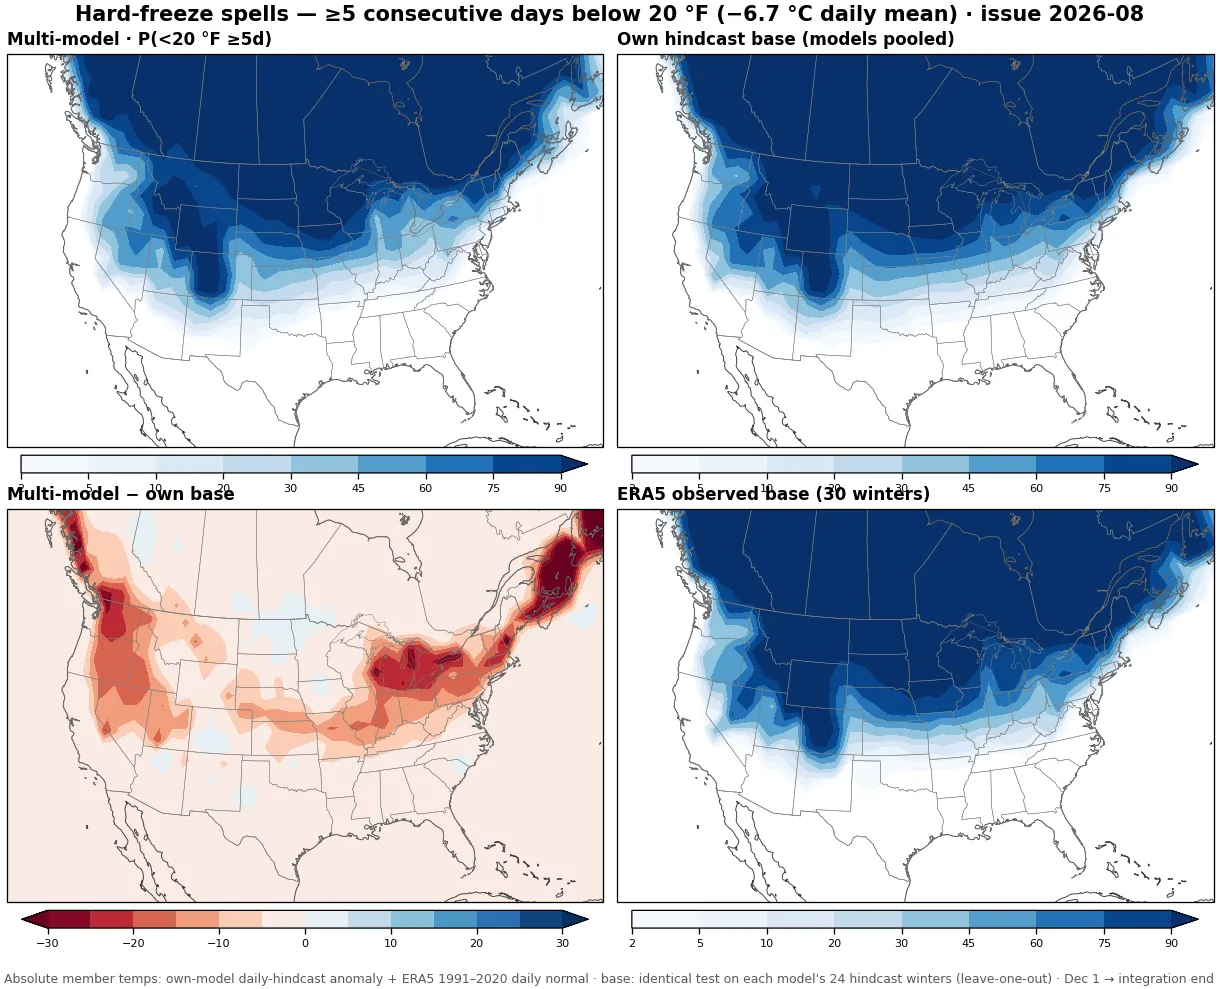
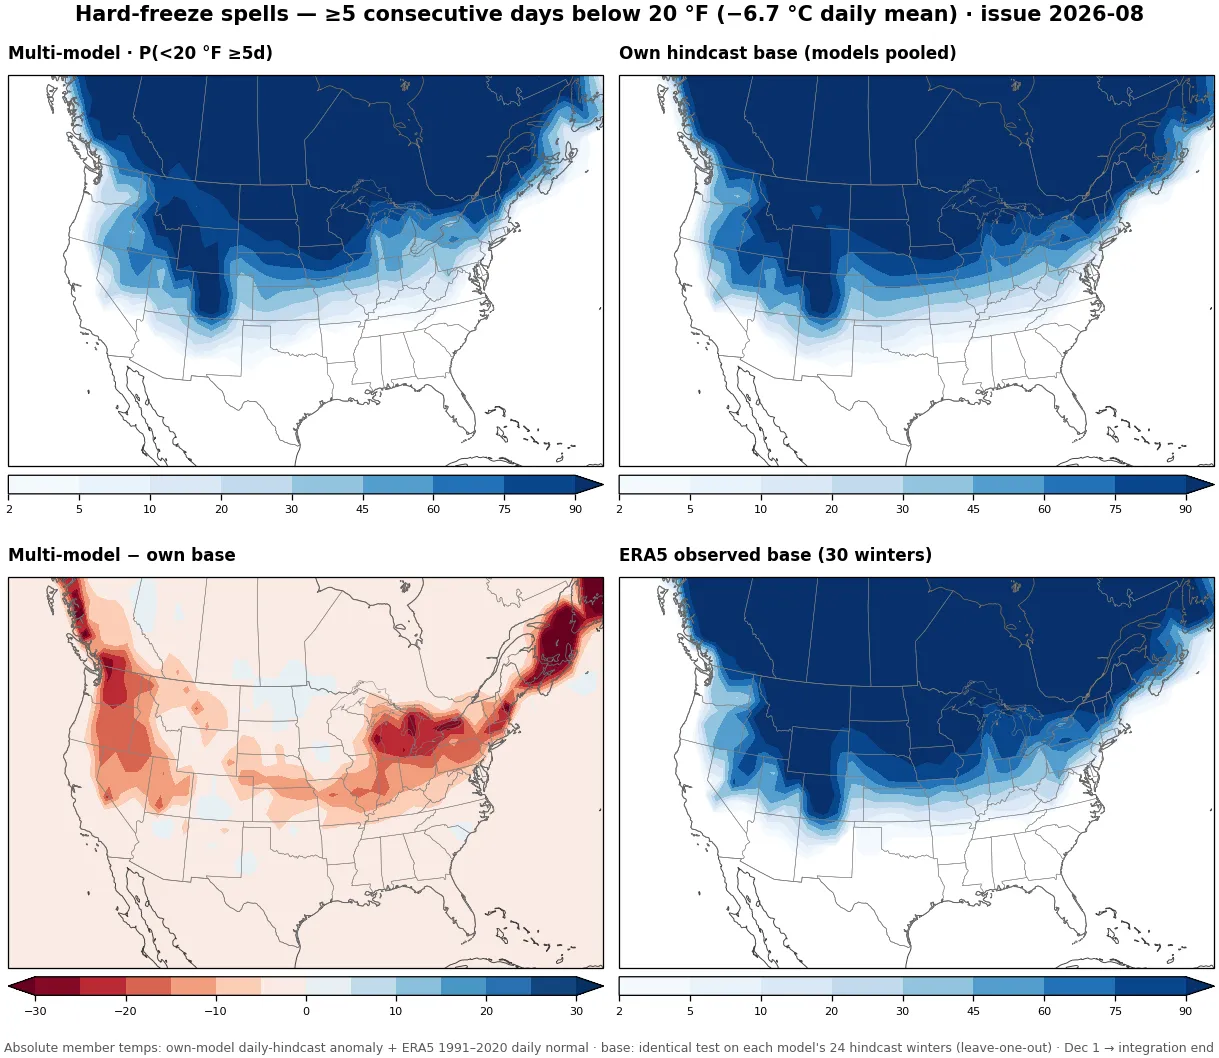
Hard-freeze figure: row spacing so panel titles clear the colorbars

diff --git a/scripts/sst/c3s_coldspell.py b/scripts/sst/c3s_coldspell.py
@@ -316,7 +316,7 @@ def hard_freeze_product(panels, tlat, tlon, lon_plot, issue, cmC, gsel):
         return
     fc, mb = np.mean(fc, axis=0), np.mean(mb, axis=0)
     eb = era5_abs_base()[gsel]
-    fig, axes = plt.subplots(2, 2, figsize=(10.6, 8.6), constrained_layout=True,
+    fig, axes = plt.subplots(2, 2, figsize=(10.6, 9.2), constrained_layout=True,
                              subplot_kw={"projection": ccrs.LambertConformal(
                                  central_longitude=-100, central_latitude=45)})
     levels = [2, 5, 10, 20, 30, 45, 60, 75, 90]
@@ -337,11 +337,12 @@ def hard_freeze_product(panels, tlat, tlon, lon_plot, issue, cmC, gsel):
                        facecolor="none")
         ax.add_feature(cfeature.STATES, lw=0.3, edgecolor="0.5",
                        facecolor="none")
-        ax.set_title(title, fontsize=10.5, fontweight="bold", loc="left")
+        ax.set_title(title, fontsize=10.5, fontweight="bold", loc="left",
+                     pad=10)
         cb = fig.colorbar(cf, ax=ax, orientation="horizontal", pad=0.02,
                           fraction=0.045, aspect=32)
         cb.ax.tick_params(labelsize=7)
-    fig.get_layout_engine().set(rect=(0, 0.035, 1, 0.95))
+    fig.get_layout_engine().set(rect=(0, 0.035, 1, 0.95), hspace=0.07)
     fig.suptitle(f"Hard-freeze spells — ≥{SPELL_DAYS} consecutive days below "
                  f"20 °F (−6.7 °C daily mean) · issue {issue[:4]}-{issue[4:]}",
                  fontsize=13, fontweight="bold")
